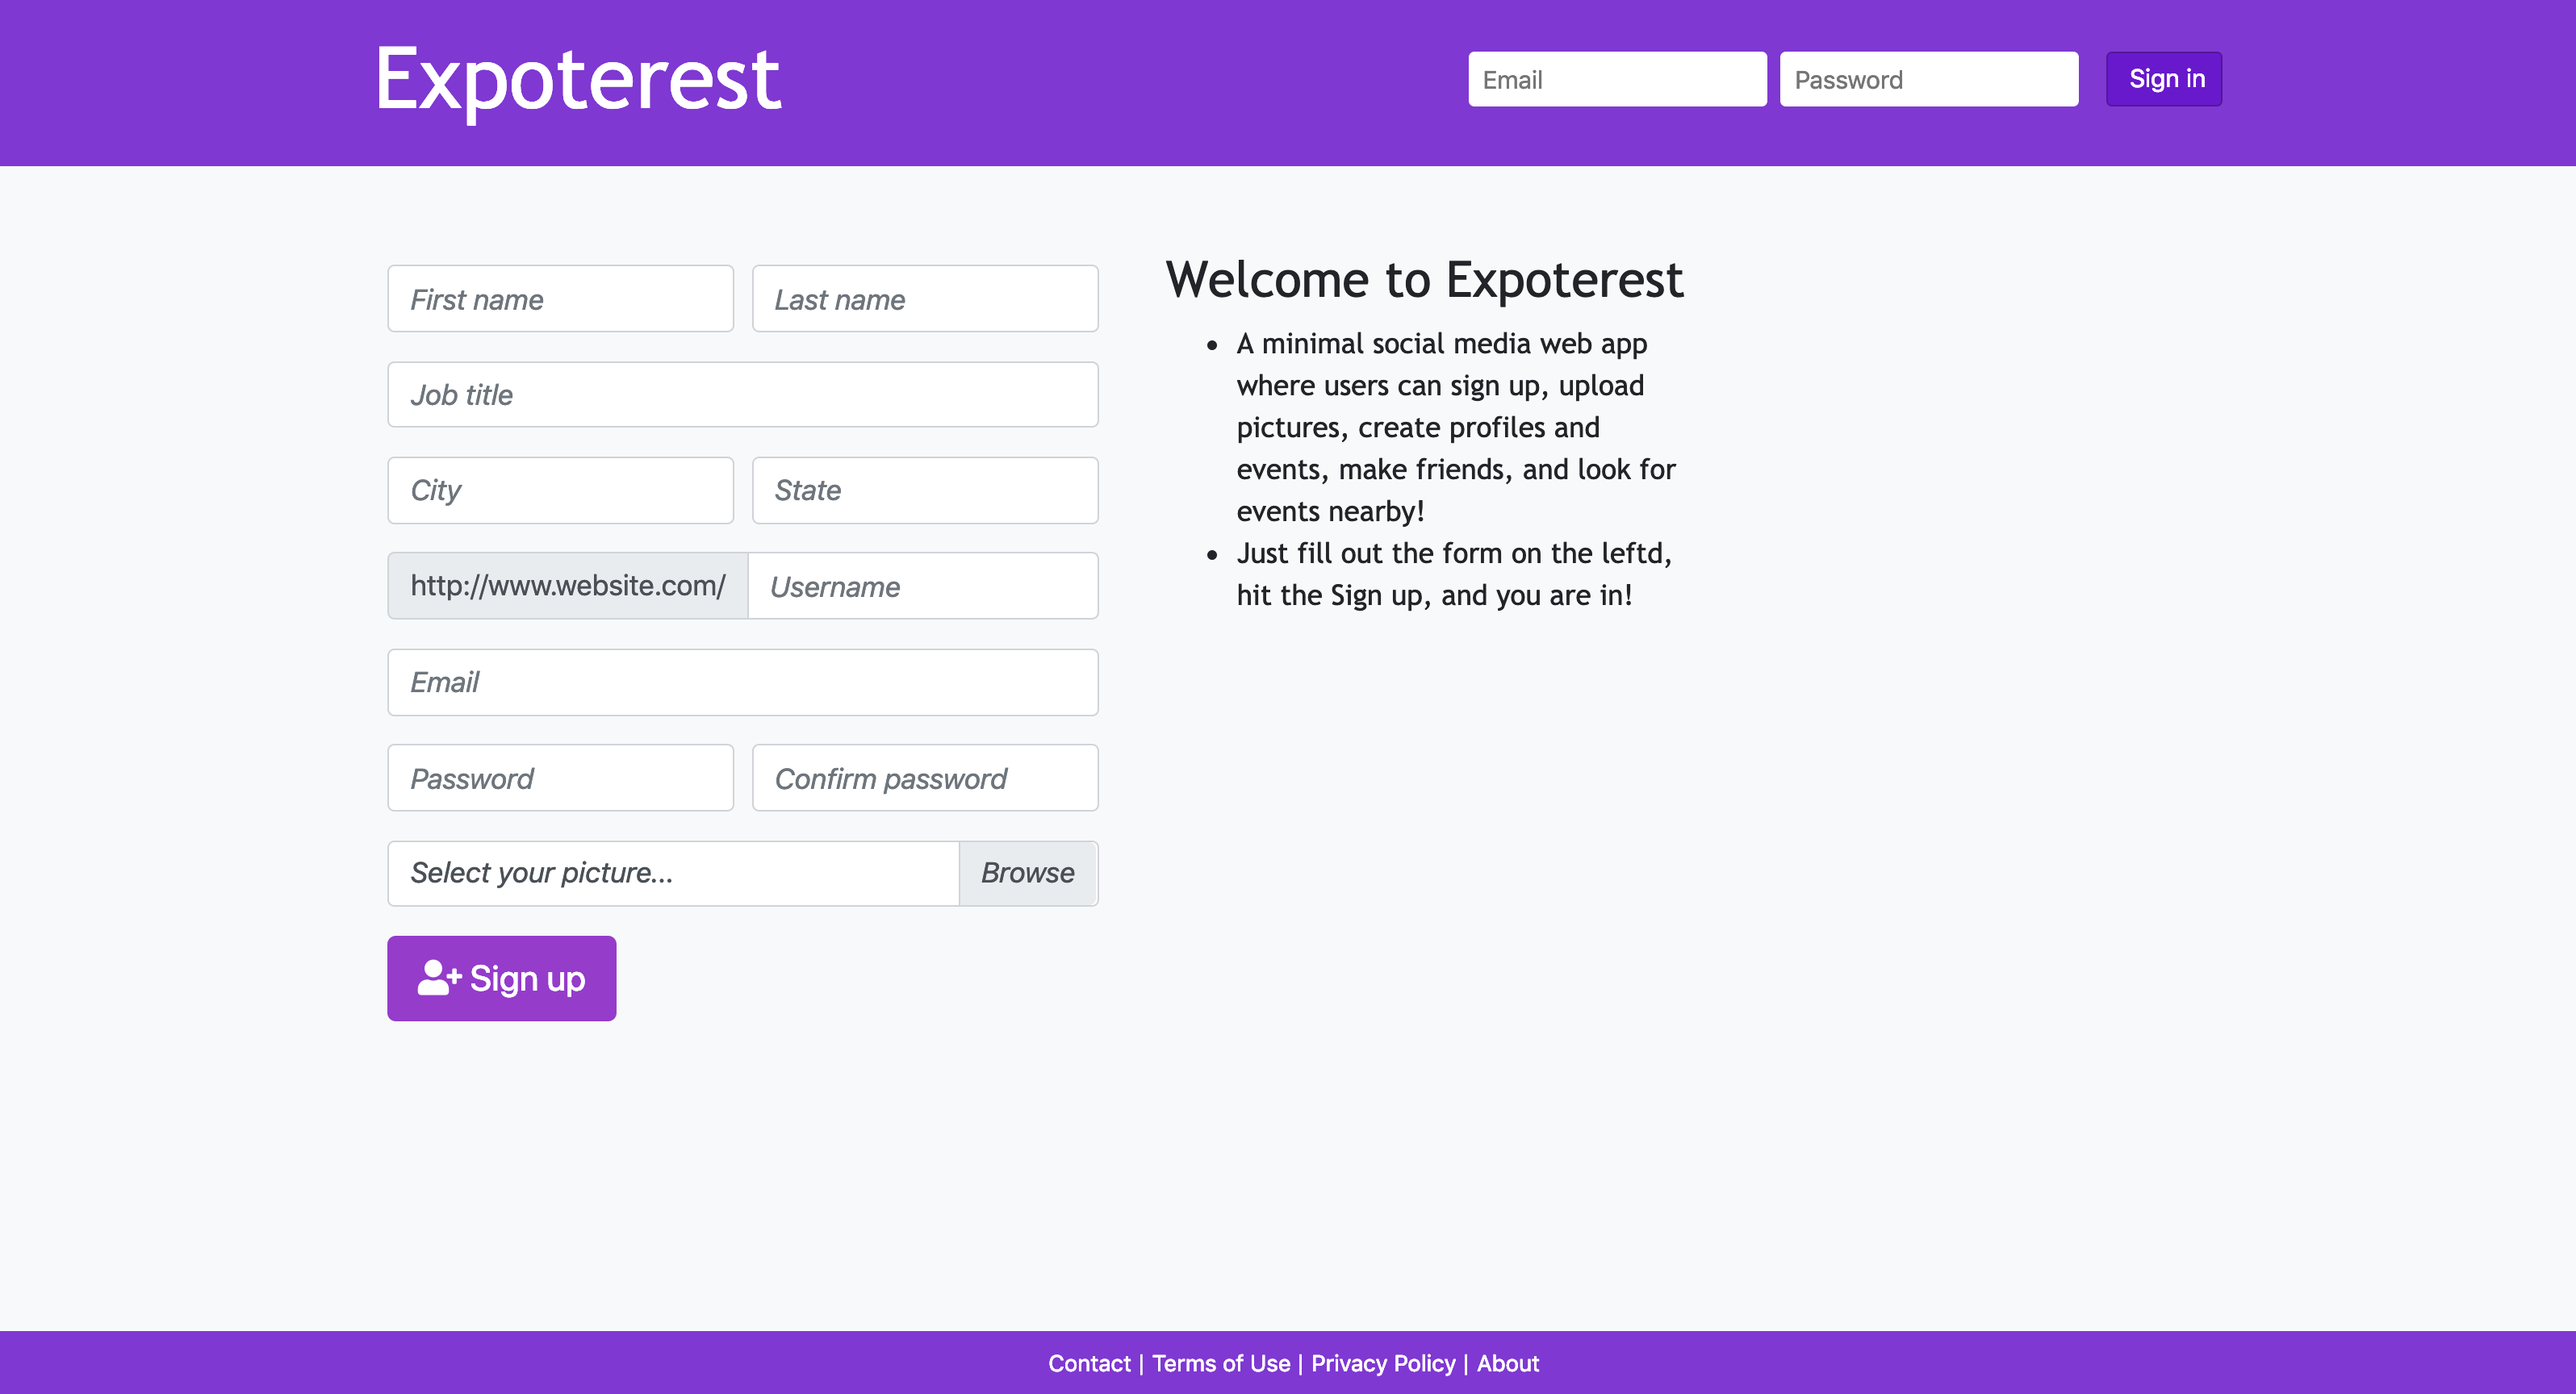
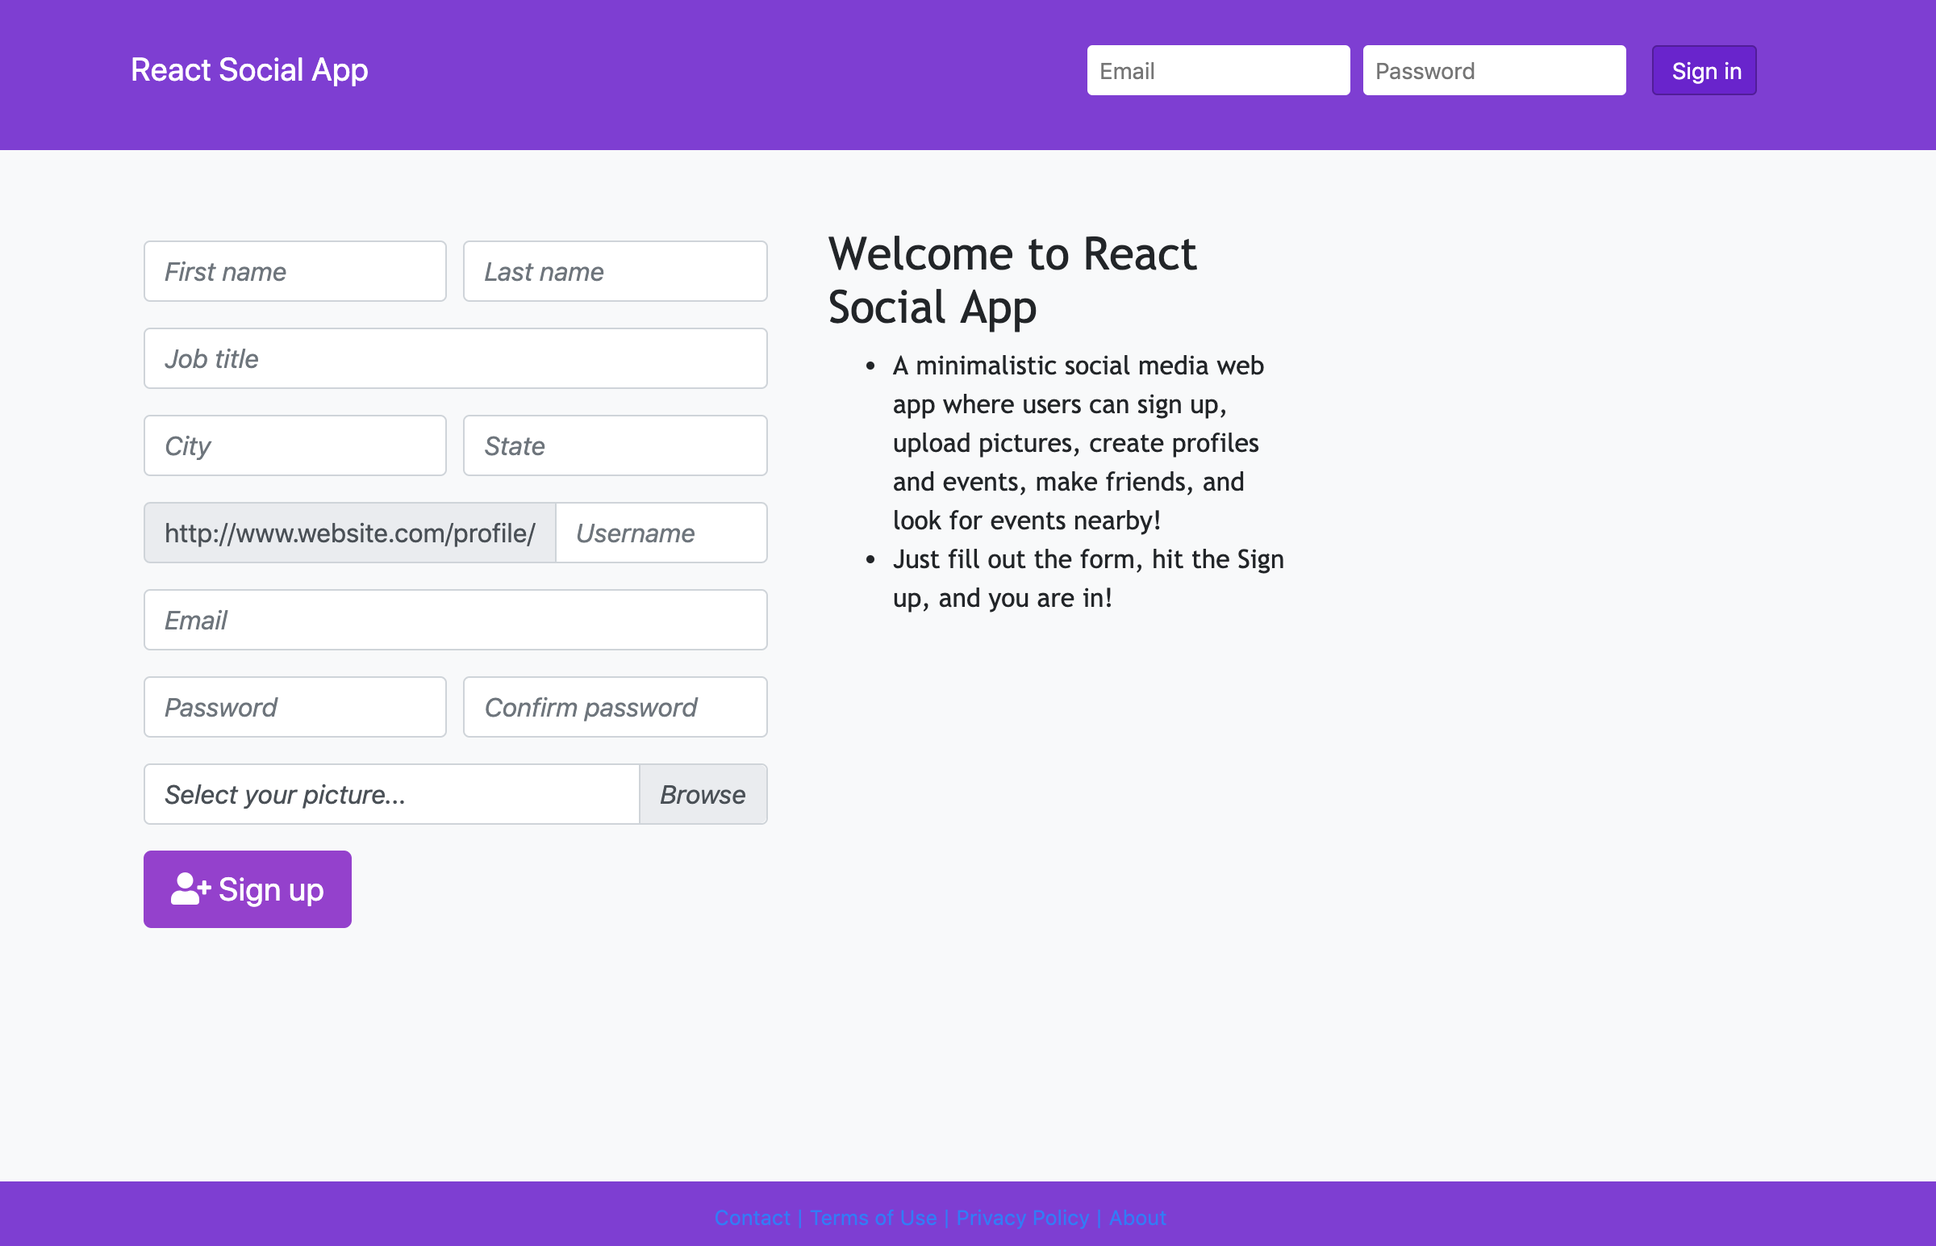
Update react social app

diff --git a/index.html b/index.html
@@ -65,7 +65,9 @@
     <!-- ********** NAVBAR ********** -->
     <nav class="navbar navbar-expand-sm navbar-dark">
       <!-- ********** BRAND ********** -->
-      <a class="navbar-brand" href="https://arsalan-sadri.github.io">Arsalan Sadri</a>
+      <a class="navbar-brand" href="https://arsalan-sadri.github.io"
+        >Arsalan Sadri</a
+      >
       <!-- ********** TOGGLER BUTTON ********** -->
       <button
         class="navbar-toggler"
@@ -114,7 +116,11 @@
           <div class="row mt-3">
             <!-- ********** IMAGE COL ********** -->
             <div class="col-sm-3 pb-3 pb-sm-0 mx-5 mx-sm-0 px-5 px-sm-3">
-              <img src="Assets/Images/blog_pic.png" alt="profile_pic" class="img-fluid" />
+              <img
+                src="Assets/Images/blog_pic.png"
+                alt="profile_pic"
+                class="img-fluid"
+              />
             </div>
             <!-- ********** BIO COL ********** -->
             <div class="col offset-md-1 ">
@@ -149,14 +155,16 @@
                   <br />
                   Manchester, United Kingdom
                   <span class="ranking"
-                    >(<a href="https://www.topuniversities.com/universities/university-manchester"
+                    >(<a
+                      href="https://www.topuniversities.com/universities/university-manchester"
                       >29th University in 2019 World Ranking</a
                     >)</span
                   >
                   <br />
                   Thesis:
                   <a href="Assets/Documents/MSc_Dissertation.pdf"
-                    >Design Patterns Using Component-based Software Development</a
+                    >Design Patterns Using Component-based Software
+                    Development</a
                   >
                   <br />
                   Supervisor: Dr.
@@ -185,7 +193,8 @@
                   <br />
                   Tehran, Iran
                   <br />
-                  Thesis: Design and Development of Optical Character Recognition Software
+                  Thesis: Design and Development of Optical Character
+                  Recognition Software
                 </div>
               </div>
               <br />
@@ -205,7 +214,9 @@
                 </div>
                 <div class="col">
                   <br />
-                  <a href="Assets/Documents/AWS_Certified_Developer_Associate_certificate.pdf">
+                  <a
+                    href="Assets/Documents/AWS_Certified_Developer_Associate_certificate.pdf"
+                  >
                     <i>AWS Certified Developer - Associate</i>
                   </a>
                 </div>
@@ -238,7 +249,9 @@
                   Irvine, CA, United States
                   <br />
                   Instructor:
-                  <a href="https://www.linkedin.com/in/taylorblanche">Taylor Blanche</a>
+                  <a href="https://www.linkedin.com/in/taylorblanche"
+                    >Taylor Blanche</a
+                  >
                 </div>
               </div>
             </div>
@@ -259,23 +272,25 @@
           <div class="row mt-3 mb-4">
             <div class="col">
               <p>
-                Below you can find some of my projects, their short descriptions, links to GitHub
-                repositories as well as deployed applications. For the full list of my projects and
-                applications, please visit my
+                Below you can find some of my projects, their short
+                descriptions, links to GitHub repositories as well as deployed
+                applications. For the full list of my projects and applications,
+                please visit my
                 <a href="https://github.com/Arsalan-Sadri">GitHub profile</a>.
               </p>
             </div>
           </div>
 
-          <!-- ********** REACT SOCIAL MEDIA ********** -->
+          <!-- ********** REACT SOCIAL APP ********** -->
           <div class="row">
             <div class="col-md-10 m-auto">
               <div class="card">
                 <div class="card-header">
-                  <h4>1- Expoterest</h4>
+                  <h4>1- React Social App</h4>
                   <div>
-                    A minimal social media web app where users can sign up, upload pictures, create
-                    profiles and events, make friends, and look for events nearby!
+                    A minimalistic social media web app where users can sign up,
+                    upload pictures, create profiles and events, and look for
+                    events nearby!
                   </div>
                 </div>
                 <img
@@ -289,7 +304,11 @@
                     class="btn mt-2"
                     >GitHub repository</a
                   >
-                  <a href="#" class="btn mt-2">Deployed app</a>
+                  <a
+                    href="https://react-social-app.herokuapp.com/"
+                    class="btn mt-2"
+                    >Deployed app</a
+                  >
                 </div>
               </div>
             </div>
@@ -302,8 +321,8 @@
                 <div class="card-header">
                   <h4>2- React Clicky Game</h4>
                   <div>
-                    A web app memory game that keeps track of users' selected Assets/Images and
-                    updates their scores accordingly.
+                    A web app memory game that keeps track of users' selected
+                    Assets/Images and updates their scores accordingly.
                   </div>
                 </div>
                 <img
@@ -312,10 +331,14 @@
                   alt="Card image cap"
                 />
                 <div class="card-footer">
-                  <a href="https://github.com/Arsalan-Sadri/18_ReactClickyGame" class="btn mt-2"
+                  <a
+                    href="https://github.com/Arsalan-Sadri/18_ReactClickyGame"
+                    class="btn mt-2"
                     >GitHub repository</a
                   >
-                  <a href="https://arsalan-sadri.github.io/18_ReactClickyGame/" class="btn mt-2"
+                  <a
+                    href="https://arsalan-sadri.github.io/18_ReactClickyGame/"
+                    class="btn mt-2"
                     >Deployed app</a
                   >
                 </div>
@@ -330,7 +353,8 @@
                 <div class="card-header">
                   <h4>3- GIPHY API</h4>
                   <div>
-                    A web app that populates with gifs of your choice via the GIPHY API
+                    A web app that populates with gifs of your choice via the
+                    GIPHY API
                   </div>
                 </div>
                 <img
@@ -339,10 +363,14 @@
                   alt="Card image cap"
                 />
                 <div class="card-footer">
-                  <a href="https://github.com/Arsalan-Sadri/06_GiphyAPI" class="btn mt-2"
+                  <a
+                    href="https://github.com/Arsalan-Sadri/06_GiphyAPI"
+                    class="btn mt-2"
                     >GitHub repository</a
                   >
-                  <a href="https://arsalan-sadri.github.io/06_GiphyAPI/" class="btn mt-2"
+                  <a
+                    href="https://arsalan-sadri.github.io/06_GiphyAPI/"
+                    class="btn mt-2"
                     >Deployed app</a
                   >
                 </div>
@@ -357,8 +385,8 @@
                 <div class="card-header">
                   <h4>4- Bamazon</h4>
                   <div>
-                    A fully-featured Node.js console application simulating a online retail shopping
-                    experience like that of Amazon.
+                    A fully-featured Node.js console application simulating a
+                    online retail shopping experience like that of Amazon.
                   </div>
                 </div>
                 <img
@@ -367,7 +395,9 @@
                   alt="Card image cap"
                 />
                 <div class="card-footer">
-                  <a href="https://github.com/Arsalan-Sadri/11_Bamazon" class="btn mt-2"
+                  <a
+                    href="https://github.com/Arsalan-Sadri/11_Bamazon"
+                    class="btn mt-2"
                     >GitHub repository</a
                   >
                 </div>
@@ -390,7 +420,9 @@
           <div class="row justify-content-center mt-4 contact-row">
             <!-- ********** GITHUB COL ********** -->
             <div class="col-auto">
-              <a href="https://github.com/Arsalan-Sadri"><i class="fab fa-github text-dark"></i></a>
+              <a href="https://github.com/Arsalan-Sadri"
+                ><i class="fab fa-github text-dark"></i
+              ></a>
             </div>
             <!-- ********** LINKEDIN COL ********** -->
             <div class="col-auto">
@@ -406,7 +438,9 @@
             </div>
             <!-- ********** TWITTER COL ********** -->
             <div class="col-auto">
-              <a href="https://twitter.com/ArsalanSadri"><i class="fab fa-twitter"></i></a>
+              <a href="https://twitter.com/ArsalanSadri"
+                ><i class="fab fa-twitter"></i
+              ></a>
             </div>
             <!-- ********** EMAIL COL ********** -->
             <div class="col-auto">
@@ -423,7 +457,8 @@
     <div class="row footer">
       <div class="col">
         Designed and developed by
-        <a href="https://Arsalan-Sadri.github.io">Arsalan Sadri</a> | All rights reserved
+        <a href="https://Arsalan-Sadri.github.io">Arsalan Sadri</a> | All rights
+        reserved
       </div>
     </div>
   </body>
